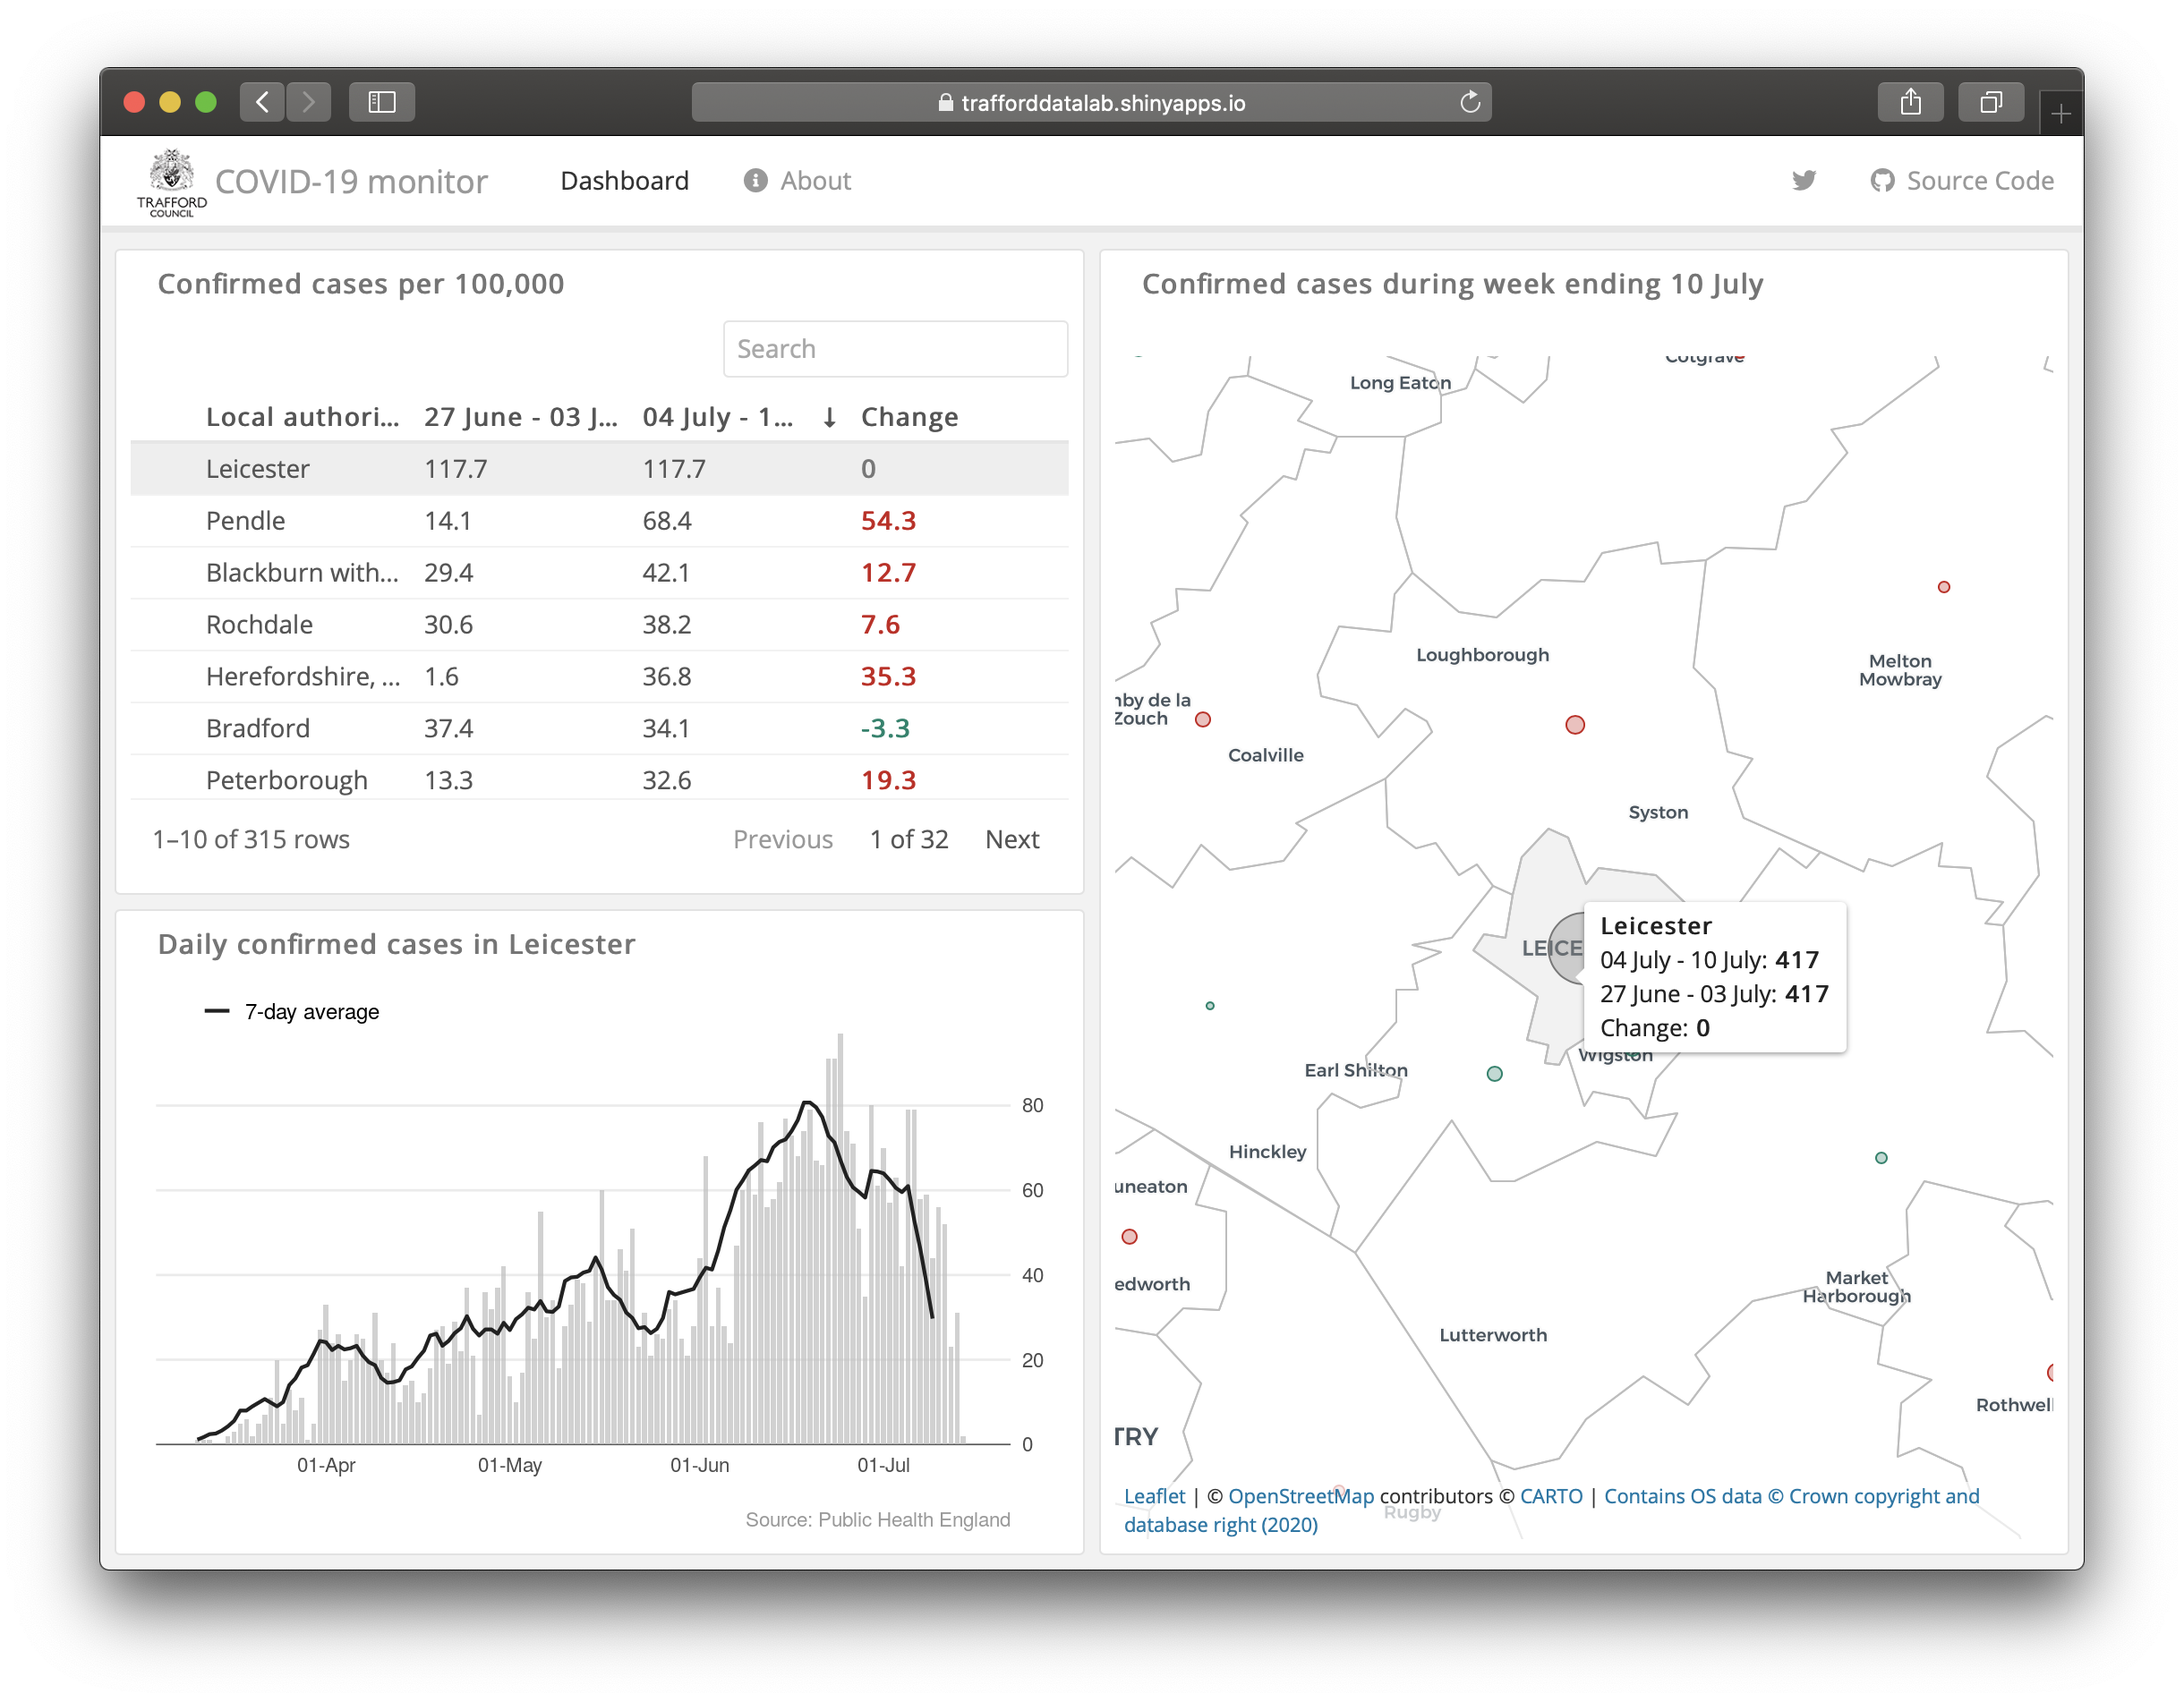
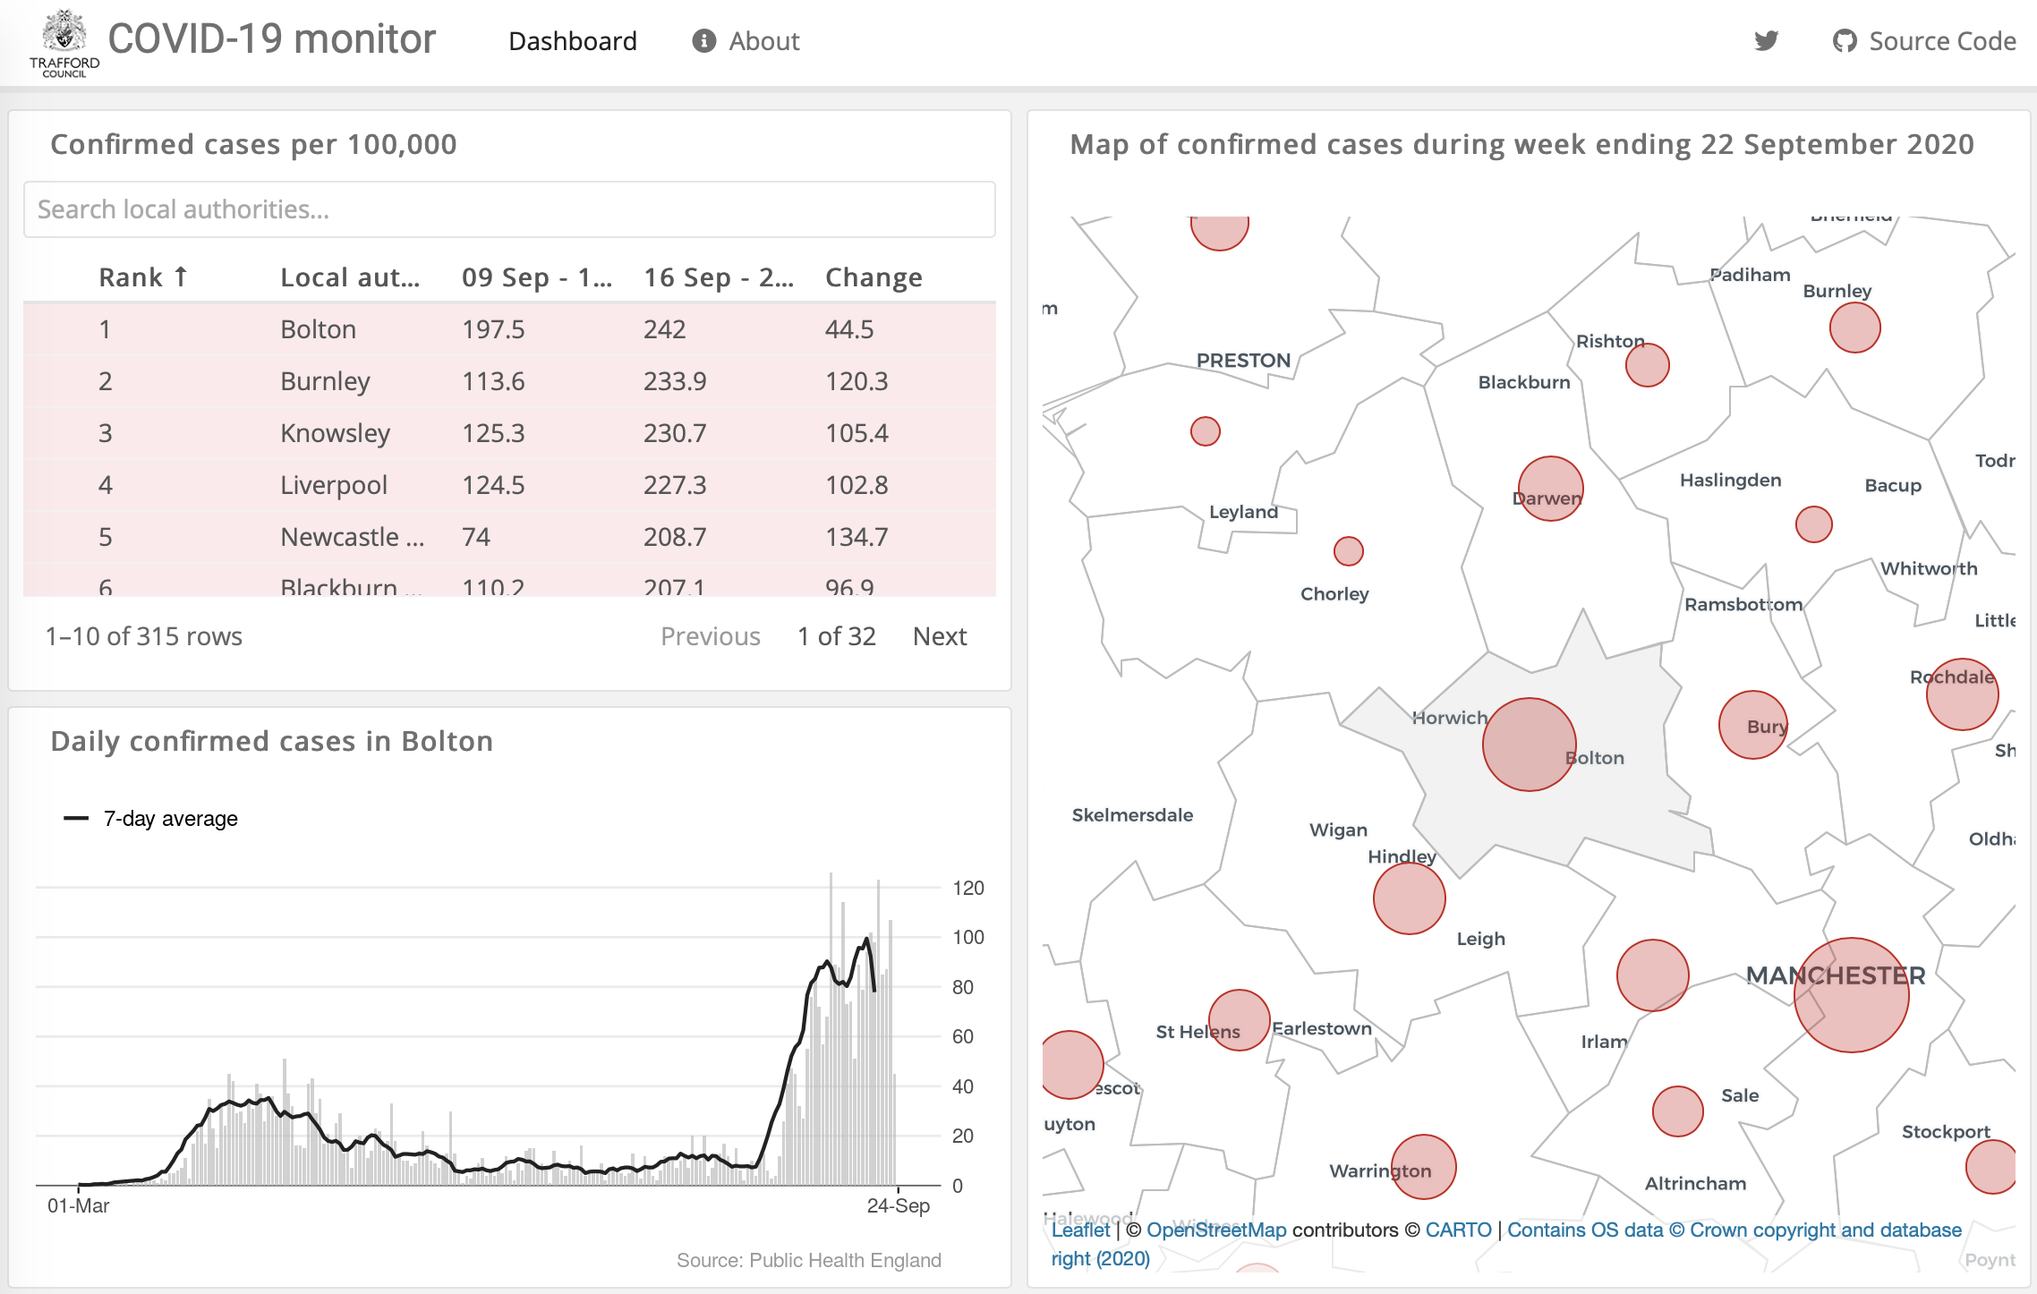
RAG status, re-rformatted dates, and more recent cases

diff --git a/about.html b/about.html
@@ -7,10 +7,11 @@
         <li>The date of confirmed cases refers to the <em>specimen</em> date not the <em>reporting</em> date.</li>
         <li>The number of <em>confirmed</em> cases is likely to be much lower than the <em>total</em> number of cases because some people are asymptomatic and others may only have mild symptoms.</li>
         <li>Cases reported include those identified under pillar 1 (hospital) and pillar 2 (commercial labs and home tests) testing.</li>
-        <li>There is a lag in the data shown because Public Health England <a href="https://coronavirus.data.gov.uk/about" target="_blank">state</a> that reported cases within the last 5 days are considered 'incomplete'.</li>
+        <li>There is a lag in the data shown because Public Health England <a href="https://coronavirus.data.gov.uk/about-data" target="_blank">state</a> that the most recent cases are 'incomplete'.</li>
         <li>The data derives from Public Health England's <a href="https://coronavirus.data.gov.uk" target="_blank">Coronavirus Dashboard</a> and are  constantly being reviewed and corrected.</li>
         <li>Cases reported for Hackney are combined with the City of London and those for Cornwall are combined with the Isles of Scilly.</li>
         <li>The rate of cases is calculated by dividing the total number of cases by the <a href="https://www.nomisweb.co.uk/datasets/pestsyoala" target="_blank">mid-2019 estimate</a> of the resident population of each local authority multiplied by 100,000.</li>
+        <li>The table rows are colour coded as <span style="color:rgb(220,24,65);">red</span> when the most recent week's incidence rate is greater than 50, <span style="color:rgb(230,184,63);">amber</span> when it is between 25 and 49, and <span style="color:rgb(40,123,40);">green</span> when it is between 0 and 24.</li>
     </ul>
     <p>Further information about the data can be found at <a href="coronavirus.data.gov.uk/about" target="_blank">coronavirus.data.gov.uk/about</a></p>
     <h3>Interpreting the chart</h3>
